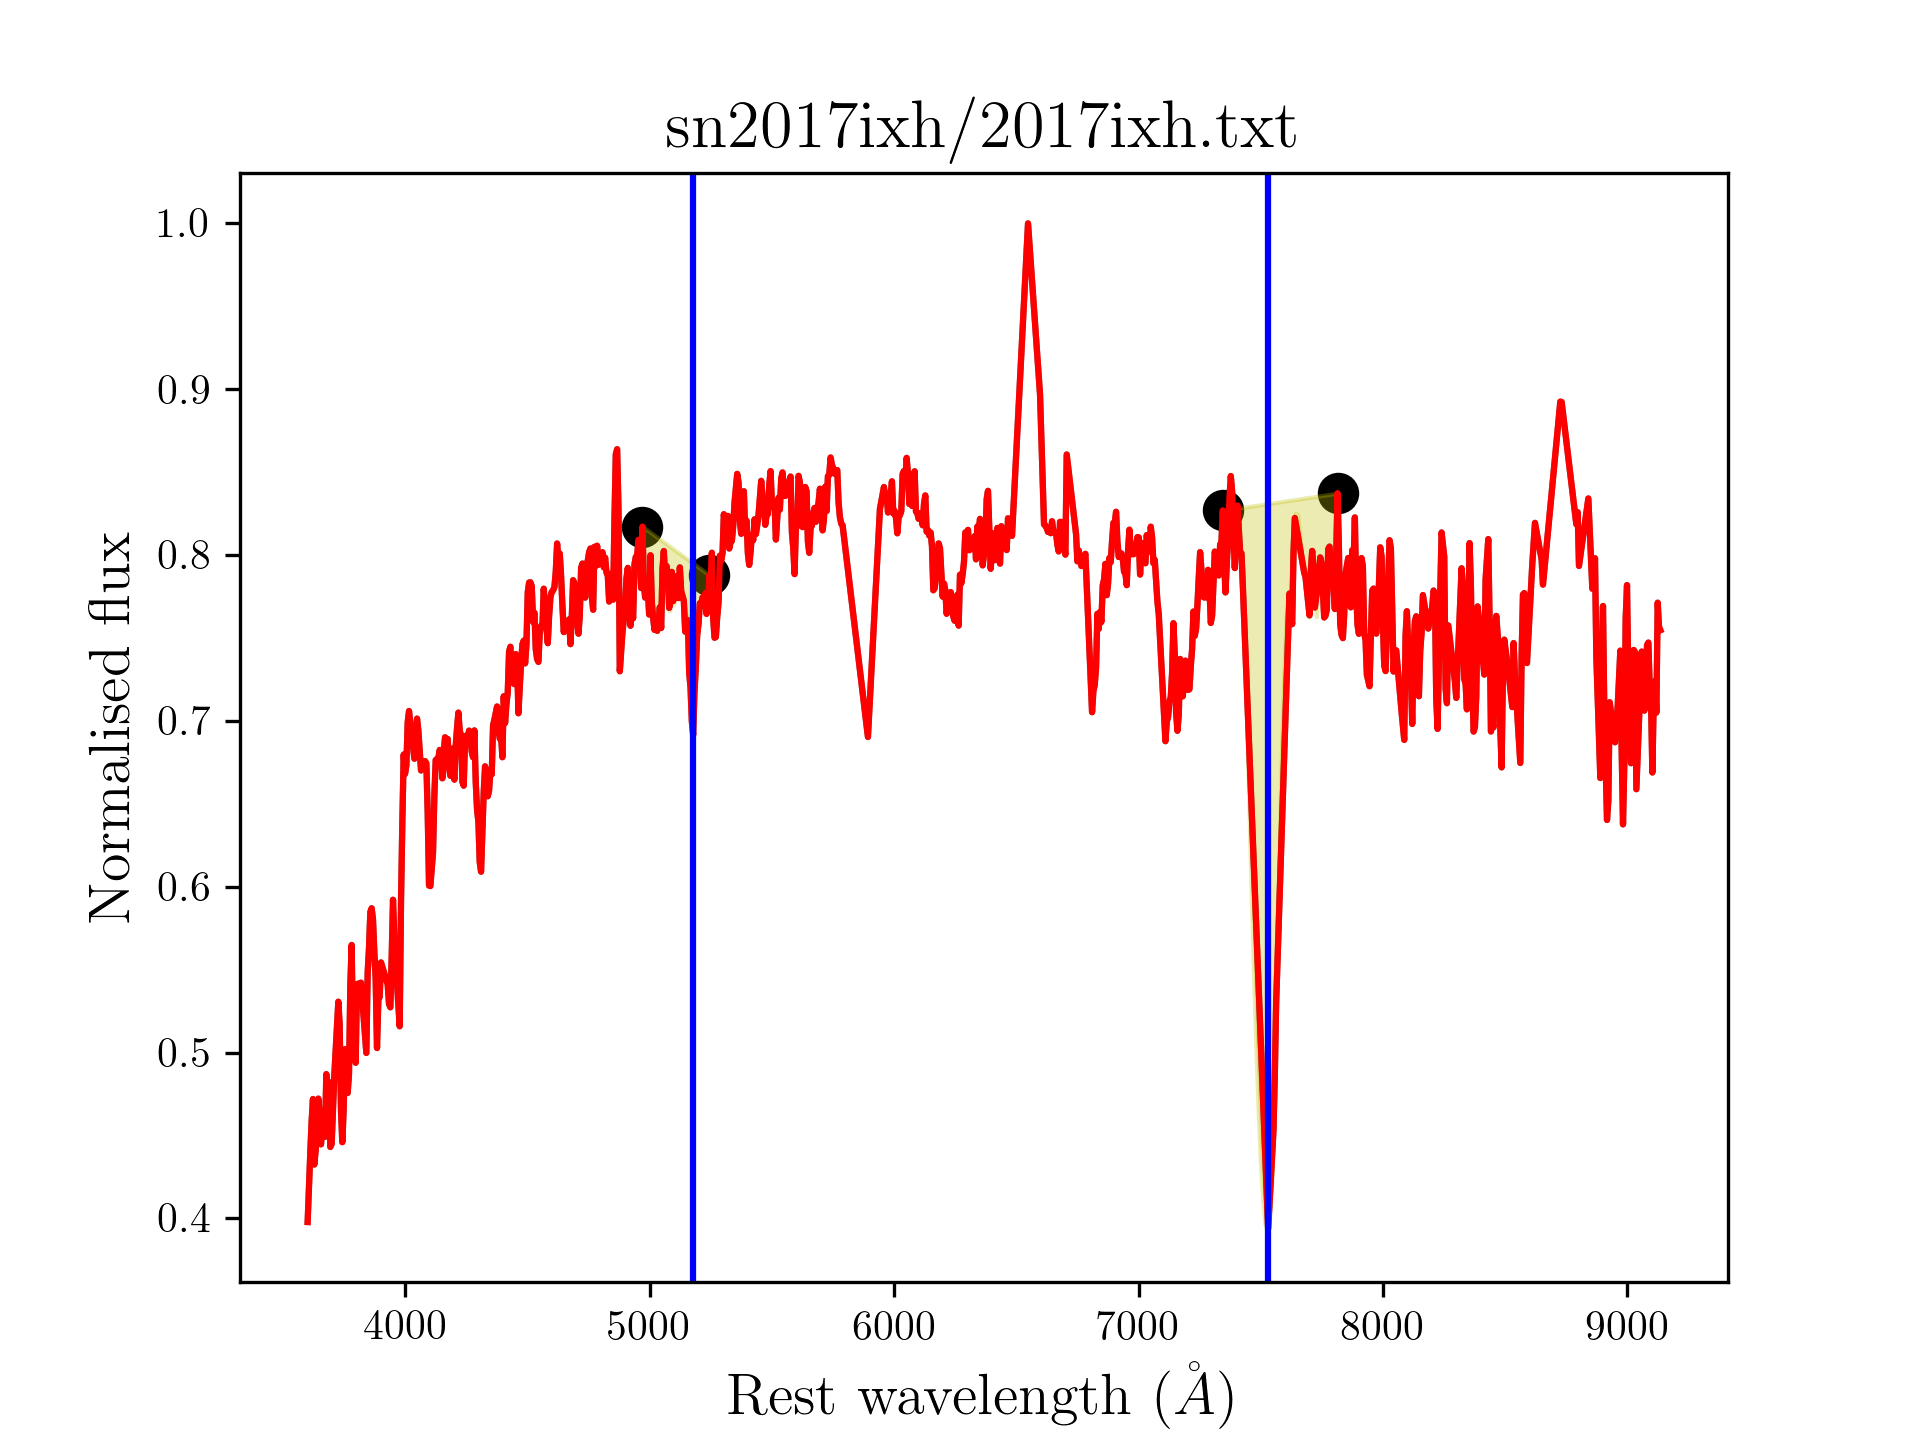
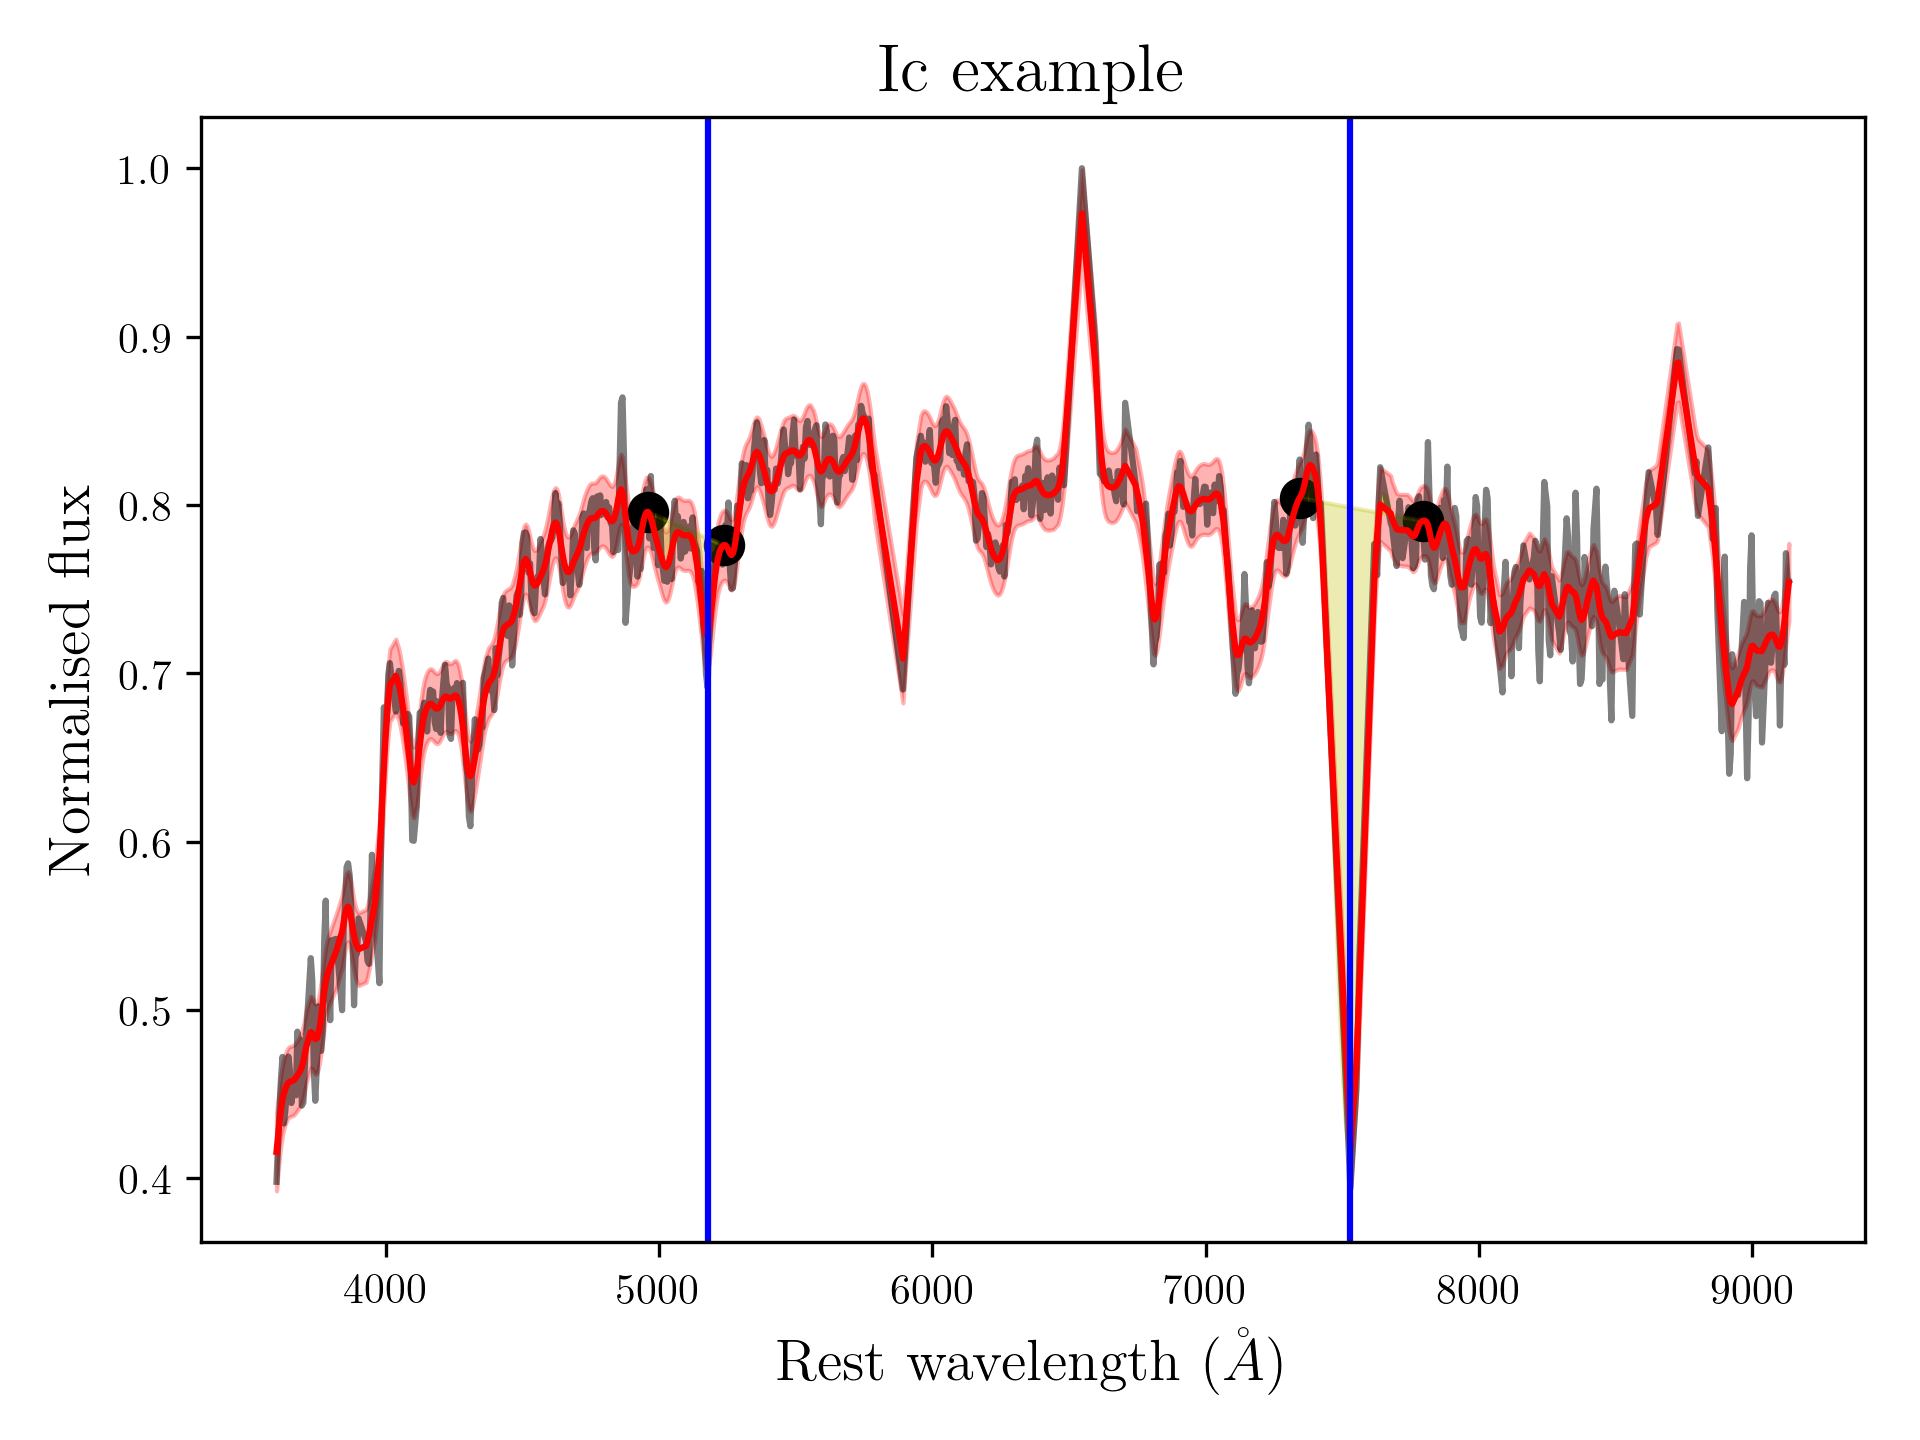
Example

Changed region(s): [[0.0312, 0.0312, 0.9688, 1.0]]

diff --git a/example/example.py b/example/example.py
@@ -8,16 +8,20 @@ from __future__ import division, print_function
 
 import matplotlib.pyplot as plt
 import spextractor
+
 plt.ioff()
+
 
 def report(magnitude, error):
     for k in sorted(magnitude):
         print(k, magnitude[k], '+-', error[k])
 
+
 # Just a test case with type Ia SN sn2006mo from the CfA sample.
 filename_Ia = 'sn2006mo/sn2006mo-20061113.21-fast.flm'
 z = 0.0459
-pew, pew_err, vel, vel_err, gp_model = spextractor.process_spectra(filename_Ia, z, downsampling=3, plot=True, type='Ia',sigma_outliers=3)
+pew, pew_err, vel, vel_err, gp_model = spextractor.process_spectra(filename_Ia, z, downsampling=3, plot=True, type='Ia',
+                                                                   sigma_outliers=3)
 
 # velocities are given in 10**3 km/s and pEW in Å
 print('pew (Å)')
@@ -26,25 +30,42 @@ print('velocities (10**3 km/s)')
 report(vel, vel_err)
 print()
 
-plt.savefig('Ia_example.png')
+plt.title('Ia example')
+plt.tight_layout()
+plt.savefig('Ia_example.png', dpi=300)
 
+out = spextractor.process_spectra(filename_Ia, z, downsampling=3, plot=True, type='Ia', sigma_outliers=3,
+                                  high_velocity=True)
+pew, pew_err, vel, vel_err, lambda_hv_results, lambda_hv_err_results, gp_model = out
+
+for line in ('Ca II H&K', 'Si II 6150A'):
+    print(line)
+    for l, l_err in zip(lambda_hv_results[line], lambda_hv_err_results[line]):
+        print('         :', l, '+-', l_err)
+
+plt.title('Ia example, with high velocity features')
+plt.tight_layout()
+plt.savefig('Ia_hv_example.png', dpi=300)
 
 # Test case with a type Ib
 filename_Ib = 'tns_2018_aqf/tns_2018aqf_2018-04-10.0_P200_DBSP_ZTF.txt'
 z = 0.033
-pew, pew_err, vel, vel_err, gp_model = spextractor.process_spectra(filename_Ib, z, downsampling=3, plot=True, type='Ib',sigma_outliers=3)
+pew, pew_err, vel, vel_err, gp_model = spextractor.process_spectra(filename_Ib, z, downsampling=3, plot=True, type='Ib',
+                                                                   sigma_outliers=3)
 # velocities are given in 10**3 km/s and pEW in Å
 print('pew (Å)')
 report(pew, pew_err)
 print('velocities (10**3 km/s)')
 report(vel, vel_err)
 print()
-plt.savefig('Ib_example.png')
-
+plt.title('Ib example')
+plt.tight_layout()
+plt.savefig('Ib_example.png', dpi=300)
 
 filename_Ic = 'sn2017ixh/2017ixh.txt'
 z = 0.011
-pew, pew_err, vel, vel_err, gp_model = spextractor.process_spectra(filename_Ic, z, plot=True, type='Ic',sigma_outliers=3)
+pew, pew_err, vel, vel_err, gp_model = spextractor.process_spectra(filename_Ic, z, plot=True, type='Ic',
+                                                                   sigma_outliers=3)
 # velocities are given in 10**3 km/s and pEW in Å
 print('pew (Å)')
 report(pew, pew_err)
@@ -52,6 +73,7 @@ print('velocities (10**3 km/s)')
 report(vel, vel_err)
 print()
 
+plt.title('Ic example')
+plt.tight_layout()
 plt.savefig('Ic_example.png', dpi=300)
 plt.show()
-
